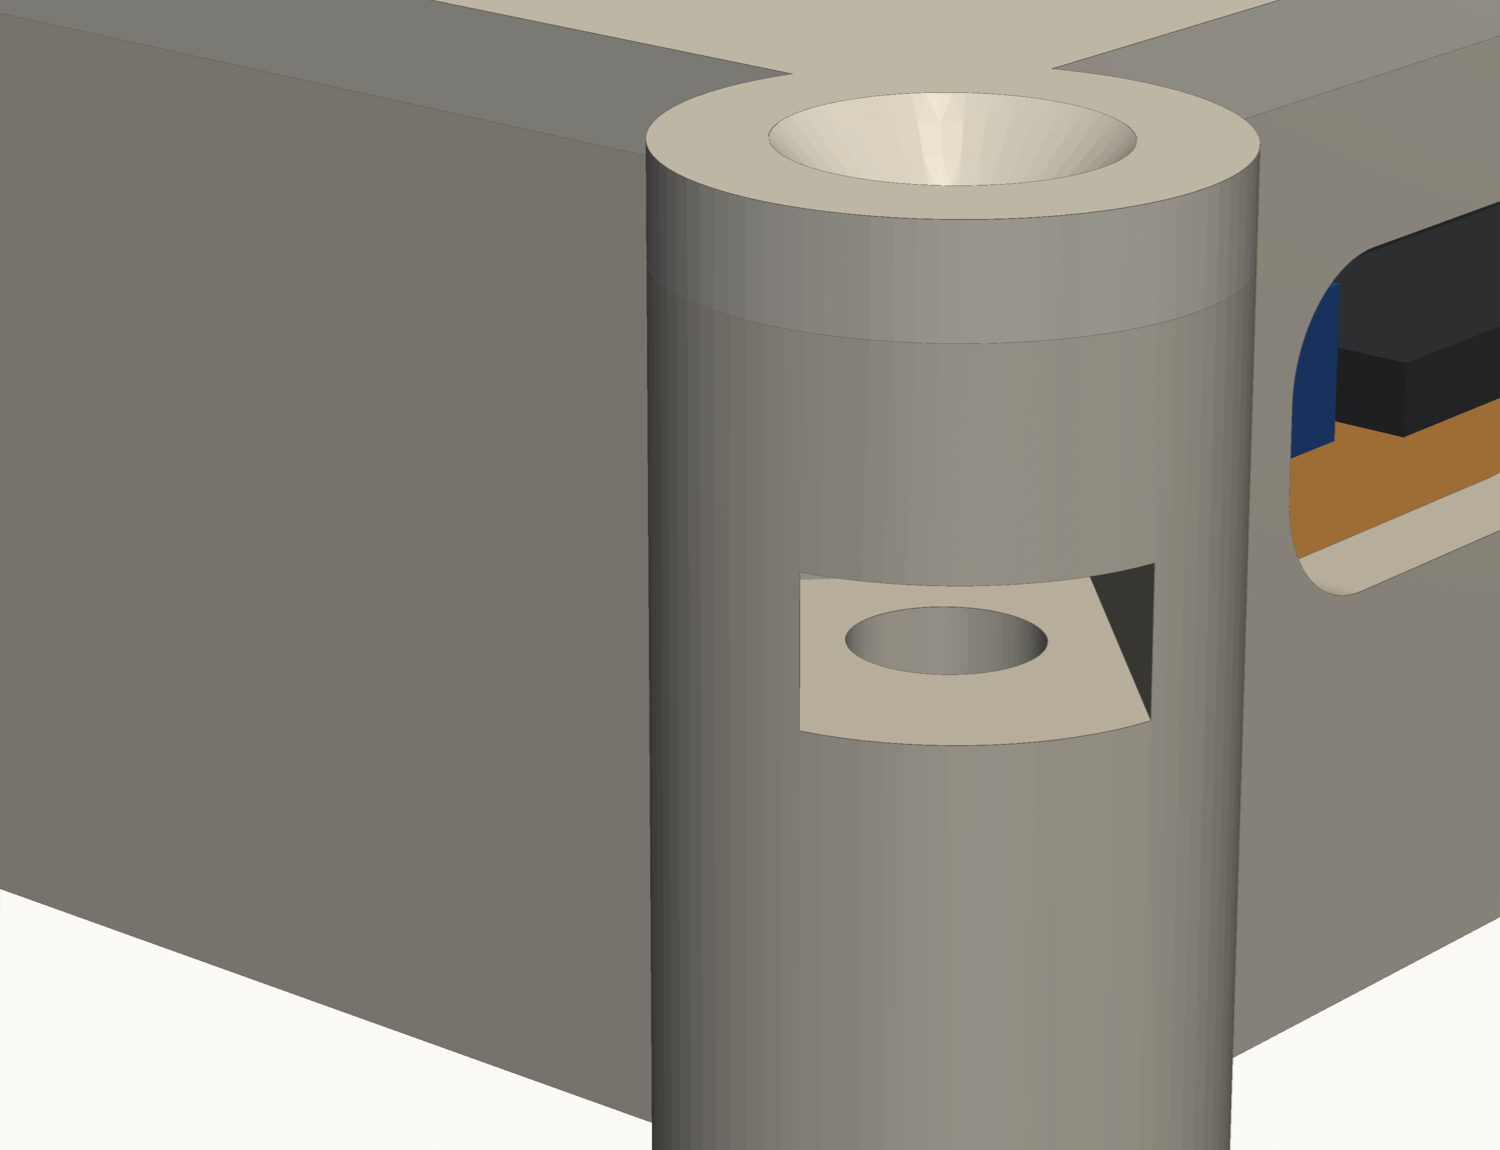
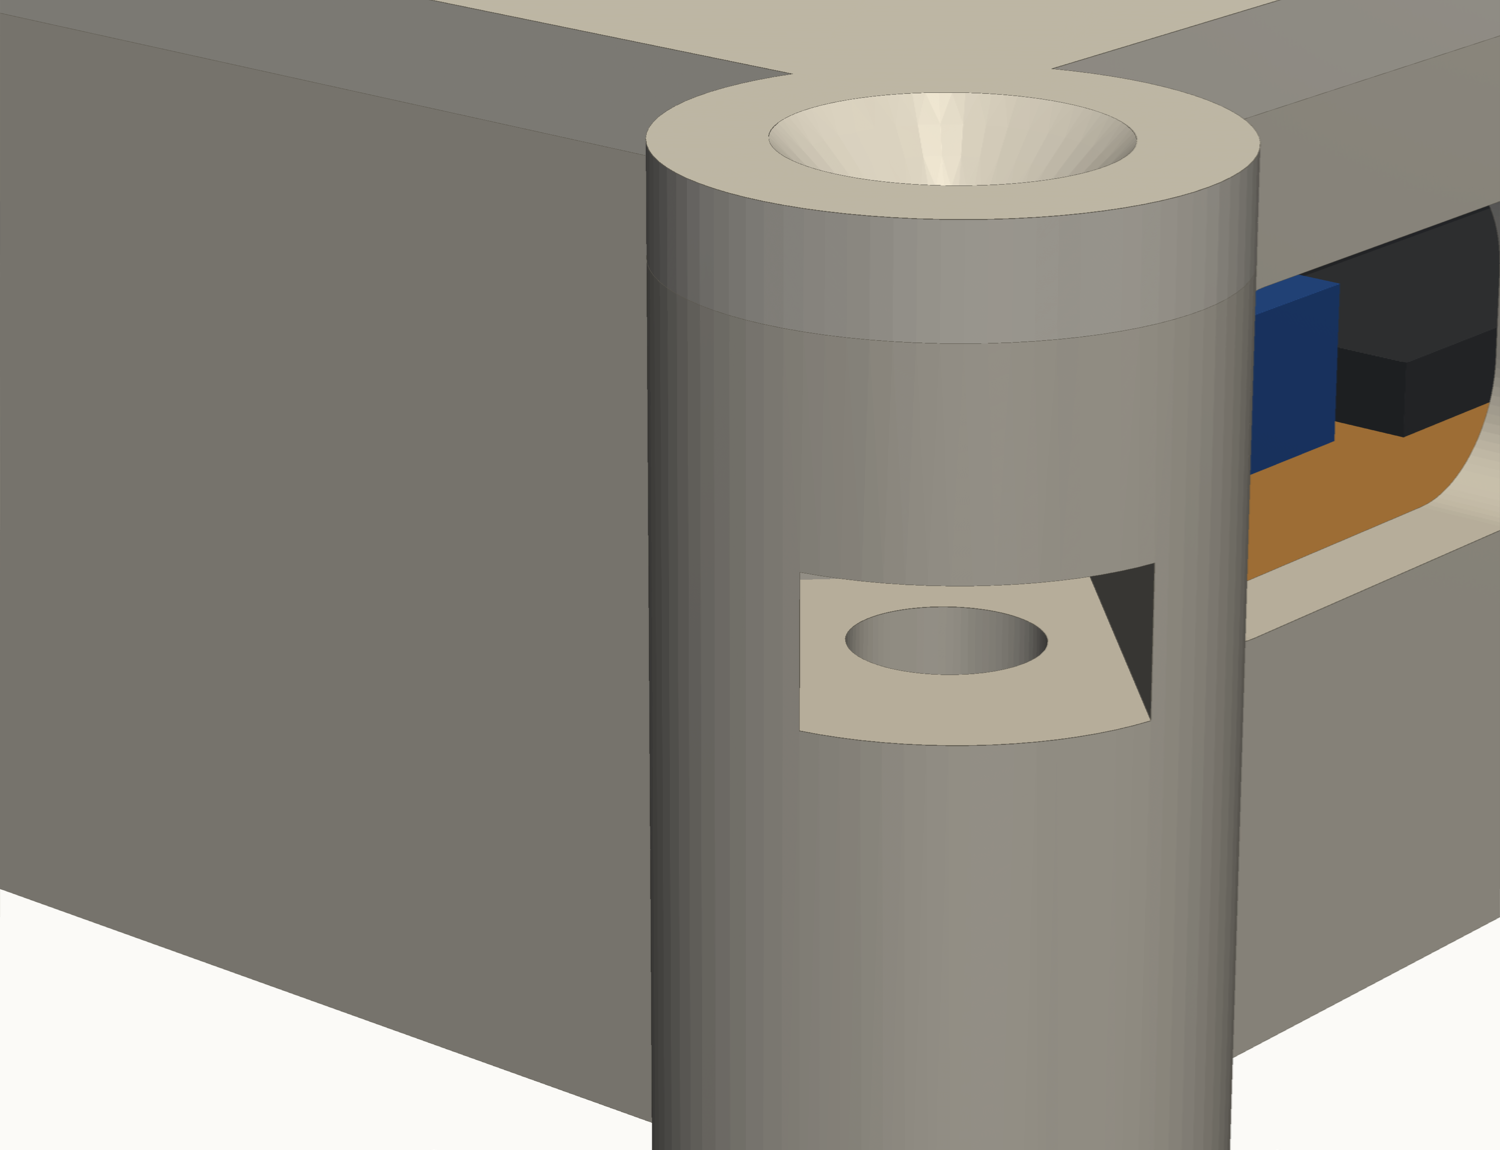
Case: USB-C openings at +2 mm from the first print, 13.5 wide

Changed region(s): [[0.828, 0.213, 0.92, 0.5478], [0.9507, 0.2739, 1.0, 0.4261], [0.9813, 0.1826, 1.0, 0.213]]

diff --git a/hardware/case/paata_case.py b/hardware/case/paata_case.py
@@ -41,7 +41,7 @@ NUT_DROP = 4.0                        # plastic between the lid and the nut slot
 # positions, EST unless noted (y is measured down from the jack end in the photos)
 yd = lambda y: BOARD_L - y
 JACK_X, JACK_Z, JACK_D = X0 + 12.5, ZTOP - 4.5, 6.0     # measured on the first print: from the inside of the left wall, from the top of the wall
-USB_ESP_X, USB_CHG_X, USB_Z = 14.3, 51.1, 9.8      # moved 5.0 towards the charger side after the first print (owner's measurement)
+USB_ESP_X, USB_CHG_X, USB_Z = 11.3, 48.1, 9.8      # EST from two test prints: +0 left the sockets against the charger-side edge, +5 against the other; now +2
 SD_Y0, SD_Y1, SD_Z = yd(46.8), yd(22.8), 5.6
 ENC_X, ENC_Y = 27.5, yd(76.7)
 WIN_X, WIN_Y, WIN_W, WIN_H = 41.9, yd(34.5), 30.0, 37.0      # screen window at the screen face
@@ -96,7 +96,7 @@ def base():
         b -= Pos(xo + POCKET_D, SW_Y + dy, SW_Z) * Rot(0, 90, 0) * Cylinder(0.85, 4)
     b -= Pos(JACK_X, Y1 + WALL / 2, JACK_Z) * Rot(90, 0, 0) * Cylinder(JACK_D / 2, WALL + 2)   # headphone jack
     for x in (USB_ESP_X, USB_CHG_X):                                      # USB-C openings, sized for the plug shell
-        b -= Pos(x, Y0 - WALL / 2, USB_Z) * Rot(90, 0, 0) * extrude(RectangleRounded(12.5, 6.8, 2.5), WALL + 2, both=True)
+        b -= Pos(x, Y0 - WALL / 2, USB_Z) * Rot(90, 0, 0) * extrude(RectangleRounded(13.5, 6.8, 2.5), WALL + 2, both=True)
     b -= B(X1 - 1, xo + 1, SD_Y0 - 1, SD_Y1 + 1, SD_Z - 1.8, SD_Z + 1.8)  # SD card slot
     cx, cy = (X0 + X1) / 2, (Y0 + Y1) / 2
     for x, y in lugs():

diff --git a/.claude/CLAUDE.md b/.claude/CLAUDE.md
@@ -165,8 +165,10 @@ Board is built and wired (2026-11-15). Owner's caliper readings of the finished 
   cut was extruded the wrong way and never reached the wall); the USB-C sockets sat against
   the charger-side edge of their openings. Now: jack hole 6 mm, centre 12.5 from the inside
   of the left wall and 4.5 below the top of the base wall (owner's measurements); both
-  USB-C openings moved 5.0 towards the charger side from the first print (owner's figure;
-  centres now x 14.3 and 51.1).
+  USB-C openings: the first print (centres x 9.3, 46.1) had the sockets against the
+  charger-side edge, the second (+5.0, owner's figure) against the opposite edge. Now +2.0
+  (x 11.3, 48.1, my estimate from the two photos) and 13.5 wide; needs a real measurement.
+  Jack hole confirmed in the right place on the second print.
 
 ## Library conventions the firmware assumes
 - Track files are named `NN - Artist - Title.flac`, one folder per album.
